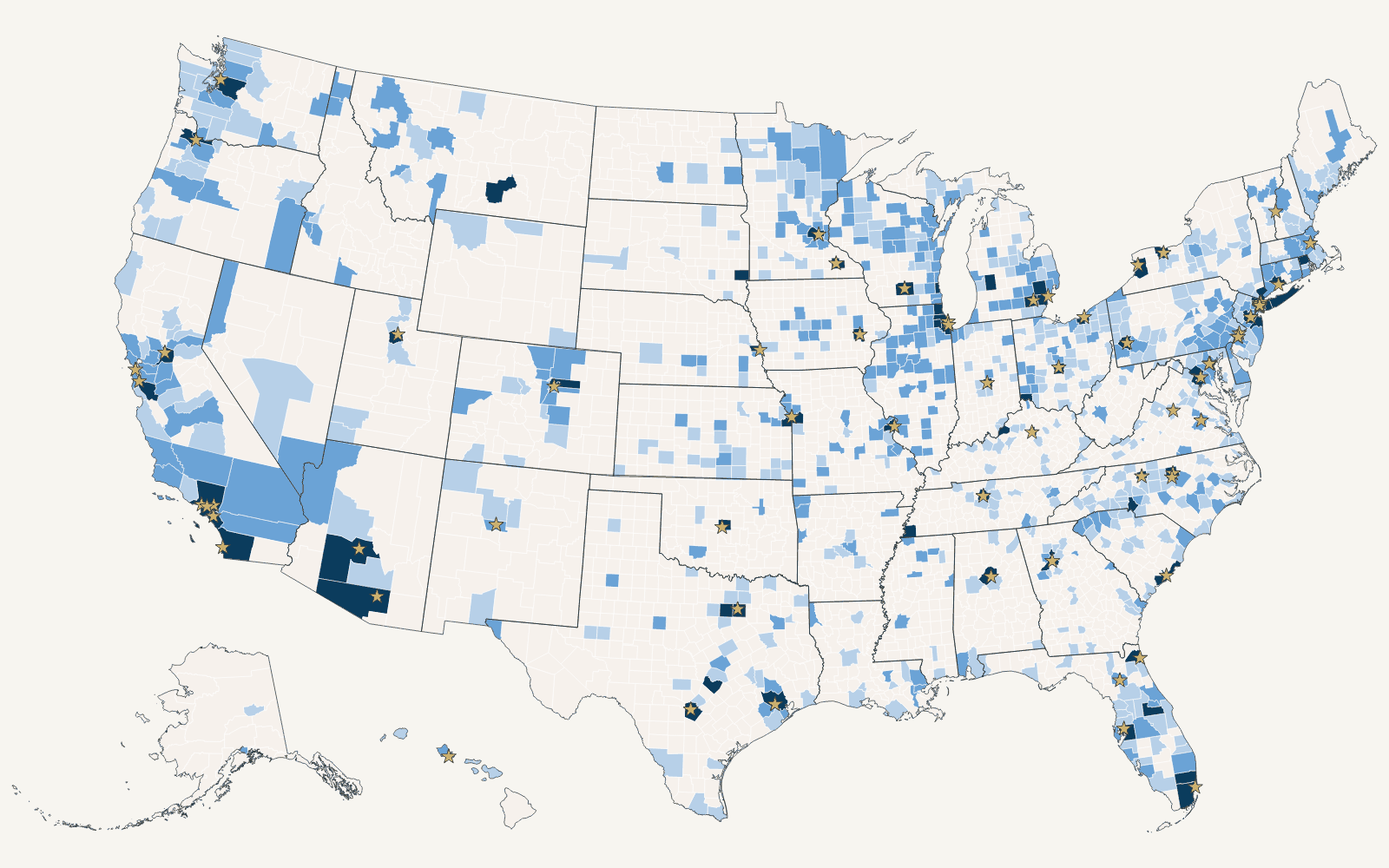
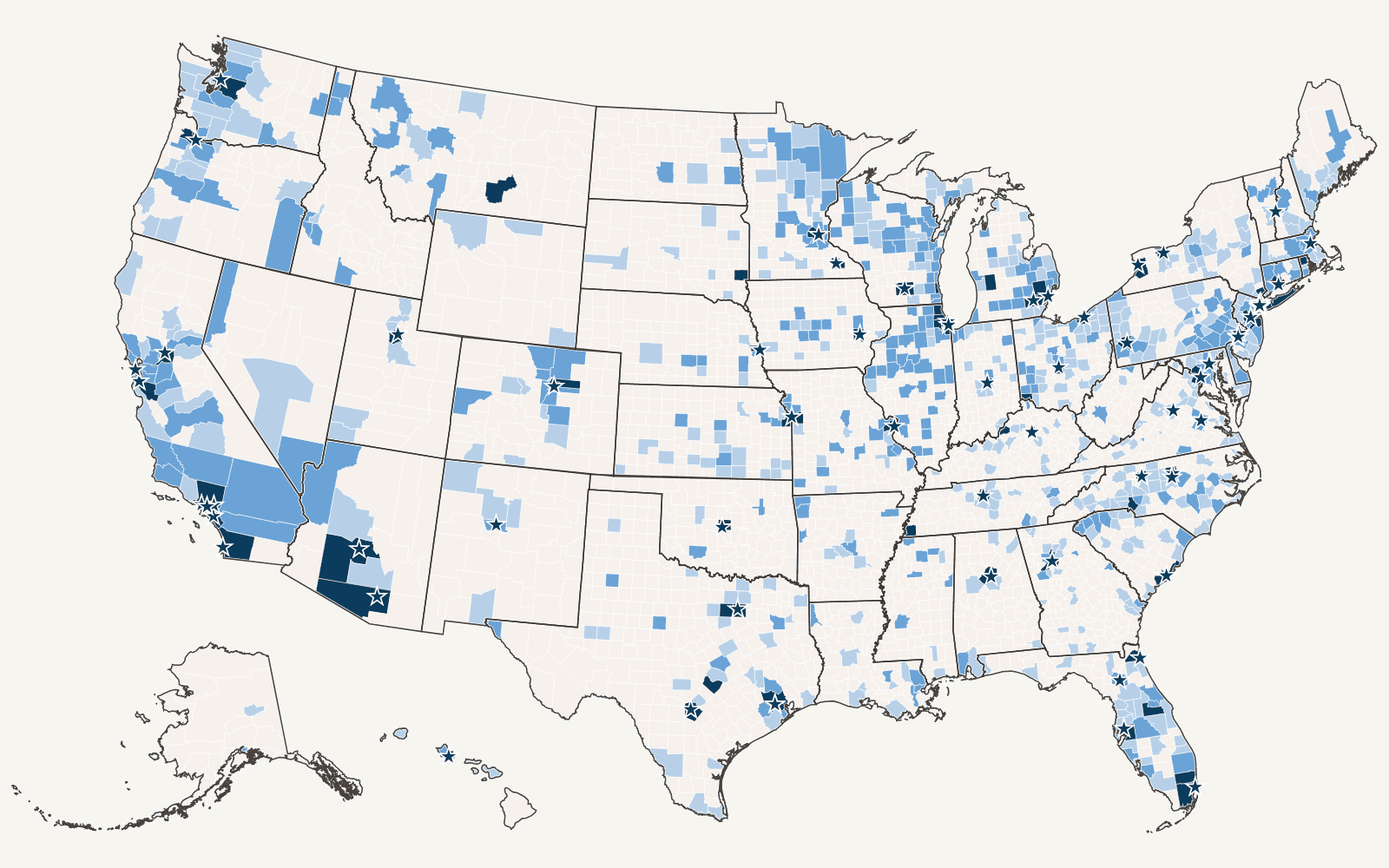
Remove the rural-urban map layer; district outlines; phone legend fold; export font; static images
Presentation only; no computation, threshold or data-file change.

- The Rural-Urban Continuum Code map layer is removed (not needed). The codes
  stay in use for everything else: metro/nonmetro circle rings, the 43.1%
  figure, the county chip and the Need-vs-access table.
- District view: district outlines are a light warm grey instead of white
  hairlines, so districts within a state can be told apart at national zoom.
- Phones: the legend strip starts folded to its title row and opens from the
  title or a chevron, so long legends no longer push the figures sheet down;
  the search card's action row fits on one line.
- Download this view: the page's bold face is embedded in the image for the
  district numbers; legend sample circles are drawn at the exact size the
  exported map draws them, with rows as tall as they need.
- Static images (Key findings, link preview): assets/og-template.html restyled
  to the site's current marks (navy NCI stars with a white edge, state borders
  as a dark line over a white casing) and regenerated with make_assets.py.
  Same data; the favicons came out byte-identical.

Claude-Session: https://claude.ai/code/session_01EEFPT2o6oGzbD7t5Gc2FsF

diff --git a/docs/index.html b/docs/index.html
@@ -163,7 +163,7 @@
   .dim .county:not(.in-district){opacity:.72} .dim .bub:not(.in-district){opacity:.55}
   .bub{cursor:pointer}
   .district{fill:none;stroke:#9C948A;stroke-width:.4;pointer-events:none;opacity:.6}
-  .unit-district .district.fillable{pointer-events:all;cursor:pointer;opacity:1;stroke:#fff;stroke-width:.6} .unit-district .district.fillable:hover{stroke:var(--ink);stroke-width:1.4}
+  .unit-district .district.fillable{pointer-events:all;cursor:pointer;opacity:1;stroke:#B9B1A6;stroke-width:.5} .unit-district .district.fillable:hover{stroke:var(--ink);stroke-width:1.4}
   .unit-district .county,.unit-state .county{fill:#F4F2EC !important;pointer-events:none;stroke:#fff;stroke-width:.2}
   .statefill{fill:none;stroke:#fff;stroke-width:.8;pointer-events:none} .unit-state .statefill{pointer-events:all;cursor:pointer} .unit-state .statefill:hover{stroke:var(--ink);stroke-width:1.6}
   .unit-state .district{display:none} .unit-district .district:not(.fillable){display:none}
@@ -254,11 +254,13 @@
   @media (max-width:640px){
     :root{--gutter:16px}
     .search-card{left:8px;top:8px;width:auto;max-width:calc(100% - 16px);padding:8px;gap:6px}
-    .search-card .inv-toggle,.search-card .invite .x{display:none} .card-actions{padding-top:4px}
+    .search-card .inv-toggle,.search-card .invite .x{display:none} .card-actions{padding-top:4px;gap:.1rem} .card-actions .tbtn{padding:.45rem .4rem;font-size:.8rem} .card-actions .ibtn{width:28px}
     .layer-switch{display:none}
     .legend-card .layer-more{position:absolute;right:10px;top:5px} .legend-card .layer-more>summary{list-style:none;cursor:pointer;border:1px solid var(--rule-2);border-radius:999px;padding:.25rem .7rem;font-size:var(--fs-0);font-weight:600;color:var(--navy);background:var(--card)} .legend-card .layer-more>summary::-webkit-details-marker{display:none} .legend-card .layer-more>summary::after{content:" ▾";font-size:.8em}
     .legend-card .legend .lg-title{padding-right:84px} .legend-card .legend{gap:.25rem .7rem} .legend-card.menu-open{z-index:40}
     .legend-card .layer-list{position:fixed;left:12px;right:12px;top:auto;bottom:12px;min-width:0;max-height:min(72vh,600px);box-shadow:0 -10px 40px rgba(27,36,48,.25)}
+    .legend-card .legend{padding-left:26px} .lg-fold{display:inline-flex;position:absolute;left:8px;top:7px;width:22px;height:22px;align-items:center;justify-content:center;border:0;border-radius:50%;background:var(--paper);color:var(--navy);cursor:pointer;font-size:.8rem;padding:0}
+    .legend-card.folded .legend > :not(.lg-title){display:none} .legend-card .legend .lg-title{cursor:pointer}
     .explore{max-height:calc(100vh - 170px)} .xrow .lab{flex-basis:100%}
     #map-wrap{height:min(56vh,480px)}
     .tabs{overflow-x:auto;-webkit-overflow-scrolling:touch;scrollbar-width:none;padding:0 var(--gutter)} .tabs::-webkit-scrollbar{display:none}
@@ -421,7 +423,6 @@
   const HB = CO ? Object.keys(CO.bills).filter(k => CO.bills[k].type === 'hr') : [], SB = CO ? Object.keys(CO.bills).filter(k => CO.bills[k].type === 's') : [];  // tracked House / Senate bills
   const billName = k => `${CO.bills[k].short} (${CO.bills[k].label})`;
   const RUCC_SHORT = {1: 'Metro, 1 million+', 2: 'Metro, 250,000–1 million', 3: 'Metro, under 250,000', 4: 'Nonmetro, urban 20,000+, adjacent to metro', 5: 'Nonmetro, urban 20,000+, not adjacent', 6: 'Nonmetro, urban 5,000–20,000, adjacent', 7: 'Nonmetro, urban 5,000–20,000, not adjacent', 8: 'Nonmetro, urban under 5,000, adjacent', 9: 'Nonmetro, urban under 5,000, not adjacent'};
-  const RUCC_CLASSES = [[1, '#0B3C5D'], [2, '#3F7FB5'], [3, '#9EC4E0'], [4, '#F5D6A8'], [5, '#F2C48A'], [6, '#E4A464'], [7, '#D98B4A'], [8, '#B25F2E'], [9, '#8A3B1E']].map(([c, col]) => [`${c} · ${RUCC_SHORT[c]}`, c, c + 1, col]);
   const BVA_CLASSES = [['High incidence · low access', 0, 1, '#8A3B1E'], ['High incidence · access above threshold', 1, 2, '#F2C48A'], ['Lower incidence · low access', 2, 3, '#3F7FB5'], ['Lower incidence · access above threshold', 3, 4, '#E6EEF5']];
   // deaths vs access: one strong color for the corner that matters, the other three muted
   const MVA_CLASSES = [['High mortality · low access', 0, 1, '#5B2A86'], ['High mortality · access above threshold', 1, 2, '#D9C9EA'], ['Lower mortality · low access', 2, 3, '#C9D9EC'], ['Lower mortality · access above threshold', 3, 4, '#F3F1EC']];
@@ -491,7 +492,7 @@
   let unit = 'county', metric = 't', incSite = 0, acsVar = 'veh', incClasses = [], acsClasses = [], selectedState = '', selectedD = null, selectedC = null;
   const PCT_CLASSES = [['under 10%',0,10,'#F3E6E0'],['10–25%',10,25,'#F2C48A'],['25–50%',25,50,'#D98B4A'],['50–75%',50,75,'#B8562E'],['75% or more',75,101,'#8A3B1E']];
   const SHORT_OK = !!(BU && RU);   // the default layer needs burden.js (county access shares) and rucc.js (metro / nonmetro)
-  const UNIT_METRICS = { county: (SHORT_OK ? ['short', 'shortt'] : []).concat(['t', 'rn', 'rb', 'inc', 'acs']).concat(RU ? ['rucc'] : []).concat(BU ? ['bva'] : []).concat(BU && MO ? ['mva'] : []), district: ['l20', 'z60', 'g60b', 'g60n', 'medn', 'ginc', 'gacs'].concat(HB.map(k => 'cos_' + k)), state: ['l20', 'z60', 'g60b', 'g60n', 'medn', 'ginc', 'gacs'] };
+  const UNIT_METRICS = { county: (SHORT_OK ? ['short', 'shortt'] : []).concat(['t', 'rn', 'rb', 'inc', 'acs']).concat(BU ? ['bva'] : []).concat(BU && MO ? ['mva'] : []), district: ['l20', 'z60', 'g60b', 'g60n', 'medn', 'ginc', 'gacs'].concat(HB.map(k => 'cos_' + k)), state: ['l20', 'z60', 'g60b', 'g60n', 'medn', 'ginc', 'gacs'] };
   const defaultMetric = () => unit === 'county' ? (SHORT_OK ? 'short' : 't') : 'l20'; metric = defaultMetric();
   const isShort = m => m === 'short' || m === 'shortt';   // the default layer and the 'Both' layer share the circles
   const GEO_LABEL = { l20: 'Residents 55+ with fewer than 20 trials within 60 road-miles', z60: 'Residents 55+ with no trial within 60 road-miles', g60b: 'Residents 55+ more than 60 road-miles from a broad menu (100+ trials)', g60n: 'Residents 55+ more than 60 road-miles from an NCI center', medn: 'Median road miles to the nearest NCI center', ginc: 'Cancer incidence, all sites (age-adjusted, per 100,000)', gacs: 'Household context (ACS)',
@@ -543,7 +544,6 @@
     rb: {label: () => 'Road miles to the nearest county with 100 or more listed trials', get: c => c.rb, classes: () => [['in a broad-menu county',0,0.5,'#0B3C5D'],['under 60 road-mi',0.5,60,'#3F7FB5'],['60–120',60,120,'#9EC4E0'],['120–200',120,200,'#F2C48A'],['200–300',200,300,'#D98B4A'],['300 or more',300,1e9,'#8A3B1E']], na: c => c.rb === null},
     inc: {label: () => 'Age-adjusted incidence per 100,000, ' + BSITE[incSite][1] + ', ' + D.meta.burden.period, get: c => c.b ? c.b[incSite][0] : null, classes: () => incClasses, na: c => !c.b || c.b[incSite][4] >= 2, caution: c => c.b && c.b[incSite][4] === 1},
     acs: {label: () => ACS_LABEL[acsVar] + ', ACS 2023 5-year', get: c => c.acs ? c.acs[acsVar] : null, classes: () => acsClasses, na: c => !c.acs || c.acs[acsVar] === null},
-    rucc: {label: () => 'Rural-Urban Continuum Code, USDA ERS 2023 (1–3 metro, 4–9 nonmetro)', get: c => RU && RU.county[c.k] ? RU.county[c.k].c : null, classes: () => RUCC_CLASSES, na: c => !RU || !RU.county[c.k]},
     bva: {label: () => `Cancer burden vs trial access · ${BSITE[incSite][1]} incidence (${D.meta.burden.period}) × ${critLabel()} within 60 road-miles` + (filtersActive() ? ' (filtered)' : ''), get: c => bvaClass(c.k), classes: () => BVA_CLASSES, na: c => bvaClass(c.k) === null, caution: c => { const b = bRec(c); return !!(b && b[4] === 1 && bvaClass(c.k) !== null); }},
     mva: {label: () => `Cancer deaths vs trial access · ${siteName(incSite)} death rate (${MO ? MO.meta.period : ''}) × ${critLabel()} within 60 road-miles` + (filtersActive() ? ' (filtered)' : ''), get: c => bvaClass(c.k), classes: () => MVA_CLASSES, na: c => bvaClass(c.k) === null, caution: c => { const b = bRec(c); return !!(b && b[4] === 1 && bvaClass(c.k) !== null); }}
   };
@@ -552,7 +552,7 @@
     if (m.startsWith('cos_')) return cosRole(districtMember(k), m.slice(4));
     if (m === 'g60b' || m === 'g60n') return g[m]; if (m === 'medn') return g.medn; if (m === 'ginc') return g.ctx ? g.ctx.inc : null; if (m === 'gacs') return g.ctx ? g.ctx[acsVar] : null; return null; }
   function quantClasses(vals, unit) { const q = d3.scaleQuantile().domain(vals).range(RAMP); const e = [d3.min(vals)].concat(q.quantiles()).concat([d3.max(vals) + 1e-9]); return RAMP.map((col, i) => [`${Math.round(e[i]*10)/10}${i === RAMP.length-1 ? '+' : '–' + Math.round(e[i+1]*10)/10}${unit}`, e[i], e[i+1], col]); }
-  function fillMetricSelect() { const sel_ = document.getElementById('metric'); sel_.innerHTML = ''; const labels = { short: 'Residents short of trials (fewer than 20 within 60 road-miles)', shortt: 'Residents short of trials, over trials in the county', t: 'Trials in the county', rn: 'Road miles to nearest NCI center', rb: 'Road miles to a broad trial menu (100+ trials)', inc: 'Cancer incidence rate', acs: 'Household context (ACS)', rucc: 'Rural-urban continuum code (USDA)', bva: 'Cancer incidence vs trial access', mva: 'Cancer deaths vs trial access', ...GEO_LABEL, ...Object.fromEntries(HB.map(k => ['cos_' + k, `Cosponsors of the ${billName(k)}`])) };
+  function fillMetricSelect() { const sel_ = document.getElementById('metric'); sel_.innerHTML = ''; const labels = { short: 'Residents short of trials (fewer than 20 within 60 road-miles)', shortt: 'Residents short of trials, over trials in the county', t: 'Trials in the county', rn: 'Road miles to nearest NCI center', rb: 'Road miles to a broad trial menu (100+ trials)', inc: 'Cancer incidence rate', acs: 'Household context (ACS)', bva: 'Cancer incidence vs trial access', mva: 'Cancer deaths vs trial access', ...GEO_LABEL, ...Object.fromEntries(HB.map(k => ['cos_' + k, `Cosponsors of the ${billName(k)}`])) };
     UNIT_METRICS[unit].forEach(m => { const o = document.createElement('option'); o.value = m; o.textContent = labels[m]; sel_.appendChild(o); }); if (!UNIT_METRICS[unit].includes(metric)) metric = defaultMetric(); sel_.value = metric; }
   let geoClasses = [];
   function rebuildDynamicClasses() {
@@ -634,7 +634,6 @@
     if (metric === 'inc') { const b = c.b ? c.b[incSite] : null; extra = '<br>' + (b && b[4] <= 1 ? `${BSITE[incSite][1]}: ${b[0]} per 100,000 (${b[3]} cases/yr)${b[4] === 1 ? ' — small numbers' : ''}` : b ? BSTATUS[b[4]] : 'no incidence data'); }
     if (isShort(metric)) { const v = shortOf(c.k), m = isMetro(c.k), t60 = METRICS.short.get(c); extra = '<br>' + (v === null ? 'access share not available' : `<b>${fmt(Math.round(v.n))} residents 55+ (${pct(v.s)}%)</b> have fewer than 20 ${fa ? 'matching ' : ''}trials within 60 road-mi${t60 !== null && !isNaN(t60) ? ` · the typical resident has ${fmt(Math.round(t60))} within reach` : ''}`) + (m === null ? '' : m ? ' · metro county' : ' · nonmetro county'); }
     if (metric === 'acs') { const v = c.acs ? c.acs[acsVar] : null; extra = '<br>' + ACS_LABEL[acsVar].replace(' (%)', '') + ': ' + (v === null ? 'no data' : v + '%'); }
-    if (metric === 'rucc' && RU && RU.county[c.k]) extra = `<br>RUCC ${RU.county[c.k].c}: ${RUCC_SHORT[RU.county[c.k].c]}${RU.county[c.k].s === '2013' ? ' (2013 code)' : ''}`;
     if (isBva(metric)) { const q = bvaClass(c.k), b = bRec(c), a = accessShare(c.k); extra = '<br>' + (q === null ? `not classified (${measureNoun()} or access not available)` : `${BCLS()[q][0]}: ${b[0]} per 100,000${b[4] === 1 ? ' (small numbers)' : ''} · ${pct(a)}% have ${critLabel()} within 60 road-mi`); }
     return `<b>${esc(clabel(c))}</b><br>${l1}<br><span class="muted">${fmt(c.p)} residents 55+ · ${fmt(fa ? cnt60[i] : c.t60)} trials within 60 road-mi</span><br>${road}${extra}`; }
   function geoTip(kind, k) { const g = kind === 'district' ? DI[k] : D.state_data[k]; if (!g) return ''; const fa = filtersActive(); const F = kind === 'district' ? FD : FS;
@@ -665,7 +664,6 @@
     else if (isBva(metric)) { lg.append('span').html(`<i class="hatch"></i>${measureNoun()} based on small numbers`); lg.append('span').html(`<i style="background:var(--nodata)"></i>${measureNoun()} not available`);
       const tot = bvaTotals(CK); const how = lg.append('details').attr('class', 'lg-how').property('open', howOpen).on('toggle', function () { howOpen = this.open; }); how.append('summary').text('How to read this map');
       how.append('p').text((tot ? `${fmt(tot.n)} counties, home to ${people(tot.p)} residents 55+ and about ${fmt(tot.c)} ${countNoun()} a year, are in the "${BCLS()[0][0].toLowerCase()}" corner${filtersActive() ? ' (filtered)' : ''}. ` : '') + bvaDefinition() + ' A cross-tabulation, not a combined score — the “Need vs access” tab (under Analysis) lists the counties.'); }
-    else if (metric === 'rucc') lg.append('span').html('<i style="background:var(--nodata)"></i>no code');
     else if (metric === 'rn' || metric === 'rb') lg.append('span').html('<i style="background:var(--nodata)"></i>no road connection (AK, HI) or >30 mi from a highway');
     else if (metric === 'acs') lg.append('span').html('<i style="background:var(--nodata)"></i>no data');
     legendStar(lg);
@@ -822,10 +820,10 @@
   const stat = o => `<div class="stat${o.cls ? ' ' + o.cls : ''}${o.tag ? ' on-map' : ''}"${o.id ? ` id="${o.id}"` : ''}>${o.tag ? `<span class="maptag">On the map · ${esc(o.tag)}</span>` : ''}<div class="num${String(o.num).replace(/<[^>]+>/g, '').length > 6 ? ' small' : ''}">${o.num}<small>${o.unit || ''}</small></div><p class="main">${o.text}</p>${o.sub ? `<p class="sub">${o.sub}</p>` : ''}${o.cmp ? `<p class="cmp">${o.cmp}</p>` : ''}${o.thin ? `<p class="thin-tag"><b>Under the 20-trial line.</b> Between 10 and 19 trials within reach: on the map these residents count as short of trials, not as without them.</p>` : ''}${o.chips ? `<div class="chips">${o.chips}</div>` : ''}</div>`;
   const statHTML = (num, unit, text, cls, id) => stat({ num, unit, text, cls, id });
   const people = n => n >= 9.95e5 ? (n / 1e6).toFixed(1) + ' million' : fmt(Math.round(n));
-  const LAYER_SHORT = { mva: 'cancer deaths vs trial access', short: 'residents short of trials', shortt: 'residents short of trials, over trials in the county', t: 'trials in the county', rn: 'road-miles to an NCI center', rb: 'road-miles to a broad menu', inc: 'cancer incidence', acs: 'household context', rucc: 'rural-urban code', bva: 'burden vs access', l20: 'fewer than 20 trials within 60 road-miles', z60: 'no trial within 60 road-miles', g60b: 'beyond 60 road-miles of a broad menu', g60n: 'beyond 60 road-miles of an NCI center', medn: 'median road-miles to an NCI center', ginc: 'cancer incidence', gacs: 'household context' };
+  const LAYER_SHORT = { mva: 'cancer deaths vs trial access', short: 'residents short of trials', shortt: 'residents short of trials, over trials in the county', t: 'trials in the county', rn: 'road-miles to an NCI center', rb: 'road-miles to a broad menu', inc: 'cancer incidence', acs: 'household context', bva: 'burden vs access', l20: 'fewer than 20 trials within 60 road-miles', z60: 'no trial within 60 road-miles', g60b: 'beyond 60 road-miles of a broad menu', g60n: 'beyond 60 road-miles of an NCI center', medn: 'median road-miles to an NCI center', ginc: 'cancer incidence', gacs: 'household context' };
   const layerName = () => metric.startsWith('cos_') ? 'cosponsors of the ' + billName(metric.slice(4)) : metric === 'acs' || metric === 'gacs' ? ACS_LABEL[acsVar].replace(' (%)', '').toLowerCase() : LAYER_SHORT[metric] || metric;
   // which hero figure the current map layer corresponds to
-  const mapStatKey = () => { const m = metric; return (isShort(m) || m === 'l20' || m === 'z60') ? 'access' : (m === 'rb' || m === 'g60b') ? 'broad' : (m === 'rn' || m === 'g60n' || m === 'medn') ? 'nci' : (m === 'inc' || m === 'ginc') ? 'inc' : (m === 'acs' || m === 'gacs') ? 'acs' : m === 't' ? 'trials' : m === 'rucc' ? 'rural' : isBva(m) ? 'bva' : m.startsWith('cos_') ? 'cos' : 'access'; };
+  const mapStatKey = () => { const m = metric; return (isShort(m) || m === 'l20' || m === 'z60') ? 'access' : (m === 'rb' || m === 'g60b') ? 'broad' : (m === 'rn' || m === 'g60n' || m === 'medn') ? 'nci' : (m === 'inc' || m === 'ginc') ? 'inc' : (m === 'acs' || m === 'gacs') ? 'acs' : m === 't' ? 'trials' : isBva(m) ? 'bva' : m.startsWith('cos_') ? 'cos' : 'access'; };
   // comparison line: the same figure for the state and the nation (filled in again from the tracts when filters are on)
   const cmpLine = (level, st, f) => { const parts = []; if (level === 'dist' || level === 'county') { const g = D.state_data[st]; if (g) parts.push(`<span data-cmp="state">State ${f(g)}</span>`); } if (level !== 'nat') parts.push(`<span data-cmp="nat">National ${f(D.meta.nat_core)}</span>`); return parts.join(' · '); };
   const topShortChips = (keys, whole) => { const rows = keys.map(k => { const v = shortOf(k); return v && v.n >= 50 ? [k, v.n] : null; }).filter(Boolean).sort((a, b) => b[1] - a[1]).slice(0, 5);
@@ -942,7 +940,7 @@
       ${row('Fewer than 20 ' + (fa ? 'matching ' : '') + 'trials within 60 road-mi', fa ? '…' : pct(m.l20) + '%', fa ? '…' : pct(nm.l20) + '%', 'l20')}${row('No ' + (fa ? 'matching ' : '') + 'trial within 60 road-mi', fa ? '…' : pct(m.z60) + '%', fa ? '…' : pct(nm.z60) + '%', 'z60')}${row('Average number of trials within 60 road-mi', fa ? '…' : fmt(m.t60), fa ? '…' : fmt(nm.t60), 't60')}
       ${row('More than 60 road-mi from an NCI center ' + ut, pct(m.g60n) + '%', pct(nm.g60n) + '%')}${row('Median road-mi to an NCI center ' + ut, m.medn === null ? 'no route' : fmt(m.medn), nm.medn === null ? 'no route' : fmt(nm.medn))}${row('More than 60 road-mi from a broad menu ' + ut, pct(m.g60b) + '%', pct(nm.g60b) + '%')}</tbody></table>
       <details style="margin-top:.5rem"><summary style="cursor:pointer;font-size:var(--fs-0);color:var(--ink-2)">By code · share with fewer than 20 trials within 60 road-mi · residents 55+ ${ut}</summary><ul class="rows">${codes}</ul></details>
-      <p class="note">USDA ERS 2023 codes; Connecticut's eight legacy counties carry 2013 codes. Shares are weighted by residents 55+ over census tracts. <button class="linkish" data-metric="rucc">Map the codes</button></p></div>`; }
+      <p class="note">USDA ERS 2023 codes; Connecticut's eight legacy counties carry 2013 codes. Shares are weighted by residents 55+ over census tracts.</p></div>`; }
   function fillFilteredRural(kind, idx) { const el = document.getElementById('rural-card'); if (!el || !filtersActive()) return;
     loadTractsAll().then(() => { const r = filteredRural(kind, idx); const el2 = document.getElementById('rural-card'); if (!el2) return; const put = (id, a, b) => { const tr = el2.querySelector(`tr[data-row="${id}"]`); if (!tr) return; const td = tr.querySelectorAll('td'); td[1].innerHTML = a; td[2].innerHTML = b; };
       const f = x => x ? pct(x.l20) + '%' : '—', g = x => x ? pct(x.z60) + '%' : '—', h = x => x ? fmt(Math.round(x.t60)) : '—';
@@ -1239,12 +1237,12 @@
   // "More layers": every layer the drawer's "Color the map by" offers for the current unit, with a swatch of its colours; the household-context
   // layer expands into its five variables so each is one click away. Choosing one sets the same controls the drawer uses.
   const lmore = document.getElementById('layer-more'), llist = document.getElementById('layer-list');
-  const GROUP = { short: 'Access', shortt: 'Access', t: 'Access', l20: 'Access', z60: 'Access', g60b: 'Distance', g60n: 'Distance', rn: 'Distance', rb: 'Distance', medn: 'Distance', inc: 'Cancer burden', ginc: 'Cancer burden', bva: 'Cancer burden', mva: 'Cancer burden', acs: 'Household context', gacs: 'Household context', rucc: 'Rural and urban' };
+  const GROUP = { short: 'Access', shortt: 'Access', t: 'Access', l20: 'Access', z60: 'Access', g60b: 'Distance', g60n: 'Distance', rn: 'Distance', rb: 'Distance', medn: 'Distance', inc: 'Cancer burden', ginc: 'Cancer burden', bva: 'Cancer burden', mva: 'Cancer burden', acs: 'Household context', gacs: 'Household context' };
   const swatch = m => { let cl = [];   // the layer's own colour classes; the quantile layers show the fixed ramp they are drawn from
     try { if (unit === 'county') cl = m === 'short' ? [[null, 0, 0, BUB_ONE]] : m === 'shortt' ? [[null, 0, 0, BUB_ONE]].concat(SHADE_CLASSES.slice(1)) : (m === 'inc' || m === 'acs') ? RAMP.map(c => [null, 0, 0, c]) : (METRICS[m] && METRICS[m].classes && METRICS[m].classes()) || [];
       else cl = (m === 'medn') ? DIST : m.startsWith('cos_') ? COS_CLASSES : (m === 'ginc' || m === 'gacs') ? RAMP.map(c => [null, 0, 0, c]) : PCT_CLASSES; } catch (e) { cl = []; }
     return cl && cl.length ? `<span class="sw" aria-hidden="true">${cl.map(k => `<i style="background:${k[3]}"></i>`).join('')}</span>` : ''; };
-  const GROUP_ORDER = ['Access', 'Distance', 'Cancer burden', 'Household context', 'Rural and urban', 'Legislation', 'Other'];
+  const GROUP_ORDER = ['Access', 'Distance', 'Cancer burden', 'Household context', 'Legislation', 'Other'];
   function buildLayerMenu() { const sel = document.getElementById('metric'); const acsSel = document.getElementById('acs-var'); let html = '';
     const groupOf = m => GROUP[m] || (m.startsWith('cos_') ? 'Legislation' : 'Other'); const opts = [...sel.options];
     for (const g of GROUP_ORDER) { const inG = opts.filter(o => groupOf(o.value) === g); if (!inG.length) continue; html += `<div class="lh">${g}</div>`;   // grouped by what the layer shows, in the drawer's order within each group
@@ -1253,9 +1251,14 @@
         else html += `<button type="button" role="option" data-m="${m}" aria-selected="${String(metric === m)}">${swatch(m)}${esc(o.textContent)}</button>`; } }
     llist.innerHTML = html;
     llist.querySelectorAll('button').forEach(b => b.addEventListener('click', () => { lmore.open = false; if (b.dataset.acs) { acsVar = b.dataset.acs; acsSel.value = acsVar; } sel.value = b.dataset.m; sel.dispatchEvent(new Event('change')); })); }
-  // on a phone the layer switch is hidden for room, so the "Layers" menu moves into the legend strip and opens as a sheet
-  const phoneMQ = matchMedia('(max-width:640px)'); const legendHome = document.querySelector('.legend-card');
-  function placeLayerMenu() { const home = phoneMQ.matches ? legendHome : lsw; if (lmore.parentElement !== home) home.appendChild(lmore); lmore.querySelector('summary').textContent = phoneMQ.matches ? 'Layers' : 'More layers'; }
+  // on a phone the layer switch is hidden for room, so the "Layers" menu moves into the legend strip and opens as a sheet;
+  // the strip itself starts folded to its title row and opens from the title or the chevron (long legends would otherwise push the figures far down)
+  const phoneMQ = matchMedia('(max-width:640px)'); const legendHome = document.querySelector('.legend-card'); let lgFolded = true;
+  const lgFold = document.createElement('button'); lgFold.type = 'button'; lgFold.className = 'lg-fold'; lgFold.setAttribute('aria-label', 'Show the legend'); lgFold.textContent = '▸'; lgFold.hidden = true; legendHome.insertBefore(lgFold, legendHome.firstChild);
+  function applyFold() { const on = phoneMQ.matches && lgFolded; legendHome.classList.toggle('folded', on); lgFold.hidden = !phoneMQ.matches; lgFold.textContent = on ? '▸' : '▾'; lgFold.setAttribute('aria-label', on ? 'Show the legend' : 'Hide the legend'); lgFold.setAttribute('aria-expanded', String(!on)); }
+  const toggleFold = () => { lgFolded = !lgFolded; applyFold(); }; lgFold.addEventListener('click', toggleFold);
+  legendHome.addEventListener('click', e => { if (phoneMQ.matches && e.target.closest('.lg-title')) toggleFold(); });
+  function placeLayerMenu() { const home = phoneMQ.matches ? legendHome : lsw; if (lmore.parentElement !== home) home.appendChild(lmore); lmore.querySelector('summary').textContent = phoneMQ.matches ? 'Layers' : 'More layers'; applyFold(); }
   placeLayerMenu(); (phoneMQ.addEventListener ? phoneMQ.addEventListener('change', placeLayerMenu) : phoneMQ.addListener(placeLayerMenu));
   document.addEventListener('click', e => { if (!lmore.contains(e.target)) lmore.open = false; }); document.addEventListener('keydown', e => { if (e.key === 'Escape') lmore.open = false; });
   lmore.addEventListener('toggle', () => { if (lmore.open) buildLayerMenu(); legendHome.classList.toggle('menu-open', lmore.open); });   // rebuilt on opening, so the list always matches the unit and layer in force
@@ -1316,6 +1319,9 @@
   layoutMap(); window.addEventListener('resize', layoutMap);
   // ---------- "Download this view": the map exactly as drawn (current layer, zoom and selection), with its legend title, legend, the place and the data date ----------
   // The SVG is serialised with the page's own stylesheet rules inside it, drawn to a canvas, and the legend is redrawn beside it from the legend's own entries.
+  let fontCss = null;   // the bold face used by the district numbers, as a data URL for the exported image (fetched once)
+  async function fontFace() { if (fontCss !== null) return fontCss; try { const buf = await (await fetch('assets/fonts/source-sans-3-latin-700-normal.woff2')).arrayBuffer(); let bin = ''; new Uint8Array(buf).forEach(b => bin += String.fromCharCode(b));
+      fontCss = `@font-face{font-family:"Source Sans 3";font-weight:700;src:url(data:font/woff2;base64,${btoa(bin)}) format("woff2")}`; } catch (e) { fontCss = ''; } return fontCss; }
   async function downloadView() {
     const btn = document.getElementById('btn-png'); if (btn.disabled) return; btn.disabled = true; busy(true, 'Preparing the image…');
     try {
@@ -1323,7 +1329,7 @@
       const mapW = OW - 2 * pad, mapH = Math.round(mapW * curVB[3] / curVB[2]);
       const clone = svg.node().cloneNode(true); clone.removeAttribute('style'); clone.setAttribute('xmlns', 'http://www.w3.org/2000/svg'); clone.setAttribute('width', mapW); clone.setAttribute('height', mapH); clone.setAttribute('viewBox', curVB.join(' '));
       let css = ''; for (const sh of document.styleSheets) { try { for (const r of sh.cssRules) if (!(r instanceof CSSFontFaceRule)) css += r.cssText + '\n'; } catch (e) { /* cross-origin sheet: skip */ } }
-      const st = document.createElementNS('http://www.w3.org/2000/svg', 'style'); st.textContent = css + 'svg{font-family:"Segoe UI","Helvetica Neue",Arial,sans-serif}';   // the page font is not reachable from inside the image
+      const st = document.createElementNS('http://www.w3.org/2000/svg', 'style'); st.textContent = css + (await fontFace()) + 'svg{font-family:"Source Sans 3","Segoe UI","Helvetica Neue",Arial,sans-serif}';   // the page font, embedded: an image cannot fetch it
       clone.insertBefore(st, clone.firstChild);
       const url = URL.createObjectURL(new Blob([new XMLSerializer().serializeToString(clone)], { type: 'image/svg+xml;charset=utf-8' }));
       const img = new Image(); await new Promise((res, rej) => { img.onload = res; img.onerror = () => rej(new Error('map image')); img.src = url; });
@@ -1331,20 +1337,20 @@
       const lgEl = document.getElementById('legend'), title = (lgEl.querySelector('.lg-title') || {}).textContent || '', sc = scope();
       const sub = sc.kind === 'nat' ? '' : (sc.kind === 'district' ? sc.label.replace(' (counties overlapping the district)', '') : sc.label) + (filtersActive() ? ' · ' + ((document.getElementById('fchip').textContent || '').replace(/×\s*$/, '').trim() || 'filtered') : '');
       const entries = [...lgEl.children].filter(el => el.tagName === 'SPAN' && !el.classList.contains('lg-title') && el.textContent.trim()).map(el => { const sw = el.querySelector('i'), ci = el.querySelector('circle'), pa = el.querySelector('path');
-        return { text: el.textContent.trim(), kind: sw ? 'rect' : ci ? 'circle' : pa ? 'star' : 'none', color: sw ? getComputedStyle(sw).backgroundColor : ci ? ci.getAttribute('fill') : pa ? pa.getAttribute('fill') : null, hatch: !!(sw && sw.classList.contains('hatch')), r: ci ? (el.dataset.n ? Math.min(bubR(+el.dataset.n) * bubScale() * mapW / curVB[2], 26) : Math.min(+ci.getAttribute('r'), 14)) : 0, stroke: ci ? ci.getAttribute('stroke') : null }; });
+        return { text: el.textContent.trim(), kind: sw ? 'rect' : ci ? 'circle' : pa ? 'star' : 'none', color: sw ? getComputedStyle(sw).backgroundColor : ci ? ci.getAttribute('fill') : pa ? pa.getAttribute('fill') : null, hatch: !!(sw && sw.classList.contains('hatch')), r: ci ? (el.dataset.n ? bubR(+el.dataset.n) * bubScale() * mapW / curVB[2] : Math.min(+ci.getAttribute('r'), 14)) : 0, stroke: ci ? ci.getAttribute('stroke') : null }; });
       const cv = document.createElement('canvas'), ctx = cv.getContext('2d'); const font = (w, px) => `${w} ${px}px "Source Sans 3", "Segoe UI", Arial, sans-serif`;
       // measure the legend rows first so the canvas is exactly as tall as it needs to be
-      ctx.font = font(500, 22); const rows = []; let row = [], x = pad; const gapX = 28, rowH = 34;
+      ctx.font = font(500, 22); const rows = []; let row = [], x = pad; const gapX = 28; const rowHOf = r => Math.max(34, ...r.map(e => e.kind === 'circle' ? 2 * e.r + 12 : 0));
       for (const e of entries) { const iw = e.kind === 'none' ? 0 : e.kind === 'circle' ? 2 * e.r + 10 : 30; const w = iw + ctx.measureText(e.text).width; if (x + w > OW - pad && row.length) { rows.push(row); row = []; x = pad; } row.push({ ...e, w, iw }); x += w + gapX; } if (row.length) rows.push(row);
-      const titleH = 46 + (sub ? 30 : 0), legendH = rows.length * rowH + 18, footH = 44; cv.width = OW * S; cv.height = (pad + titleH + mapH + 14 + legendH + footH) * S; ctx.scale(S, S);
+      const titleH = 46 + (sub ? 30 : 0), legendH = rows.reduce((a, r) => a + rowHOf(r), 0) + 18, footH = 44; cv.width = OW * S; cv.height = (pad + titleH + mapH + 14 + legendH + footH) * S; ctx.scale(S, S);
       ctx.fillStyle = '#F7F5F0'; ctx.fillRect(0, 0, OW, cv.height / S); ctx.fillStyle = '#1B2430'; ctx.textBaseline = 'alphabetic';
       ctx.font = font(600, 30); ctx.fillText(title, pad, pad + 28); if (sub) { ctx.font = font(500, 22); ctx.fillStyle = '#4B5563'; ctx.fillText(sub, pad, pad + 58); }
       const mapY = pad + titleH; ctx.drawImage(img, pad, mapY, mapW, mapH);
-      let y = mapY + mapH + 14 + 24; for (const r of rows) { let x = pad; for (const e of r) { const cy = y - 8;
+      let y = mapY + mapH + 14; for (const r of rows) { const rh = rowHOf(r); y += rh / 2 + 8; let x = pad; for (const e of r) { const cy = y - 8;
           if (e.kind === 'rect') { if (e.hatch) { ctx.fillStyle = '#fff'; ctx.fillRect(x, cy - 10, 20, 20); ctx.save(); ctx.beginPath(); ctx.rect(x, cy - 10, 20, 20); ctx.clip(); ctx.strokeStyle = '#bbb'; ctx.lineWidth = 2; for (let d = -20; d < 40; d += 5) { ctx.beginPath(); ctx.moveTo(x + d, cy + 10); ctx.lineTo(x + d + 20, cy - 10); ctx.stroke(); } ctx.restore(); } else { ctx.fillStyle = e.color; ctx.fillRect(x, cy - 10, 20, 20); } ctx.strokeStyle = 'rgba(0,0,0,.12)'; ctx.lineWidth = 1; ctx.strokeRect(x + .5, cy - 9.5, 19, 19); }
           else if (e.kind === 'circle') { ctx.beginPath(); ctx.arc(x + e.r + 2, cy, e.r, 0, 2 * Math.PI); ctx.fillStyle = e.color; ctx.fill(); ctx.strokeStyle = e.stroke || '#fff'; ctx.lineWidth = 1; ctx.stroke(); }
           else if (e.kind === 'star') { ctx.save(); ctx.translate(x + 10, cy); ctx.scale(1.15, 1.15); const p = new Path2D(d3.symbol().type(d3.symbolStar).size(80)()); ctx.fillStyle = e.color || '#0B3C5D'; ctx.fill(p); ctx.strokeStyle = '#fff'; ctx.lineWidth = 1; ctx.stroke(p); ctx.restore(); }
-          ctx.fillStyle = '#4B5563'; ctx.font = font(500, 22); ctx.fillText(e.text, x + e.iw, y); x += e.w + gapX; } y += rowH; }
+          ctx.fillStyle = '#4B5563'; ctx.font = font(500, 22); ctx.fillText(e.text, x + e.iw, y); x += e.w + gapX; } y += rh / 2 - 8; }
       ctx.font = font(400, 19); ctx.fillStyle = '#7C8794'; ctx.fillText(`Cancer Trial Access Map · ${location.host}${location.pathname} · ClinicalTrials.gov data as of ${dataDay} · counts are of listed trials, not trials a given patient qualifies for`, pad, cv.height / S - 16);
       URL.revokeObjectURL(url);
       const name = `cancer-trial-access-map_${metric}${sc.kind === 'nat' ? '' : '_' + sc.key}_${SITE.dataDate(D.meta)}.png`;

diff --git a/docs/assets/og-template.html b/docs/assets/og-template.html
@@ -12,7 +12,7 @@ h1{font-size:44px;line-height:1.08;letter-spacing:-.02em;margin:18px 0 22px;font
 p{font-size:24px;line-height:1.35;margin:10px 0 0;color:#1B2430;max-width:440px}
 .bar{position:absolute;left:0;right:0;bottom:0;height:14px;background:#0B3C5D}
 .url{position:absolute;left:56px;bottom:34px;font-size:20px;color:#4B5563}
-.county{stroke:#fff;stroke-width:.35}.nci{fill:#F0B429;stroke:#3a2f00;stroke-width:.5}
+.county{stroke:#fff;stroke-width:.35}.nci{fill:#0B3C5D;stroke:#fff;stroke-width:1}
 </style></head><body>
 <div class="txt"><div class="brand">Cancer Trial Access Map</div>
 <h1>How far are Americans from a cancer clinical trial?</h1>
@@ -27,6 +27,6 @@ const D=window.DATA,C=D.counties,G=window.GEO;document.getElementById('n').textC
 const proj=d3.geoAlbersUsa().fitSize([959,594],G.counties);proj.translate([proj.translate()[0]+8,proj.translate()[1]+8]);const path=d3.geoPath(proj);
 const col=t=>t>=100?'#0B3C5D':t>=20?'#6BA3D6':t>0?'#B7D0E8':'#F6F1EC';
 const svg=d3.select('#map');svg.append('g').selectAll('path').data(G.counties.features.filter(f=>C[f.properties.id])).join('path').attr('class','county').attr('d',path).attr('fill',f=>col(C[f.properties.id].t));
-svg.append('g').selectAll('path').data(G.states.features).join('path').attr('d',path).attr('fill','none').attr('stroke','#1B2430').attr('stroke-width',.6).attr('opacity',.7);
-svg.append('g').selectAll('path').data(D.nci).join('path').attr('class','nci').attr('d',d3.symbol().type(d3.symbolStar).size(34)).attr('transform',n=>{const p=proj([n.lon,n.lat]);return p?`translate(${p})`:'translate(-100,-100)'});
+const gs=svg.append('g');gs.selectAll('path.c').data(G.states.features).join('path').attr('class','c').attr('d',path).attr('fill','none').attr('stroke','#fff').attr('stroke-width',2).attr('opacity',.8);gs.selectAll('path.l').data(G.states.features).join('path').attr('class','l').attr('d',path).attr('fill','none').attr('stroke','#3F3831').attr('stroke-width',.95).attr('opacity',.95);
+svg.append('g').selectAll('path').data(D.nci).join('path').attr('class','nci').attr('d',d3.symbol().type(d3.symbolStar).size(52)).attr('transform',n=>{const p=proj([n.lon,n.lat]);return p?`translate(${p})`:'translate(-100,-100)'});
 </script></body></html>
